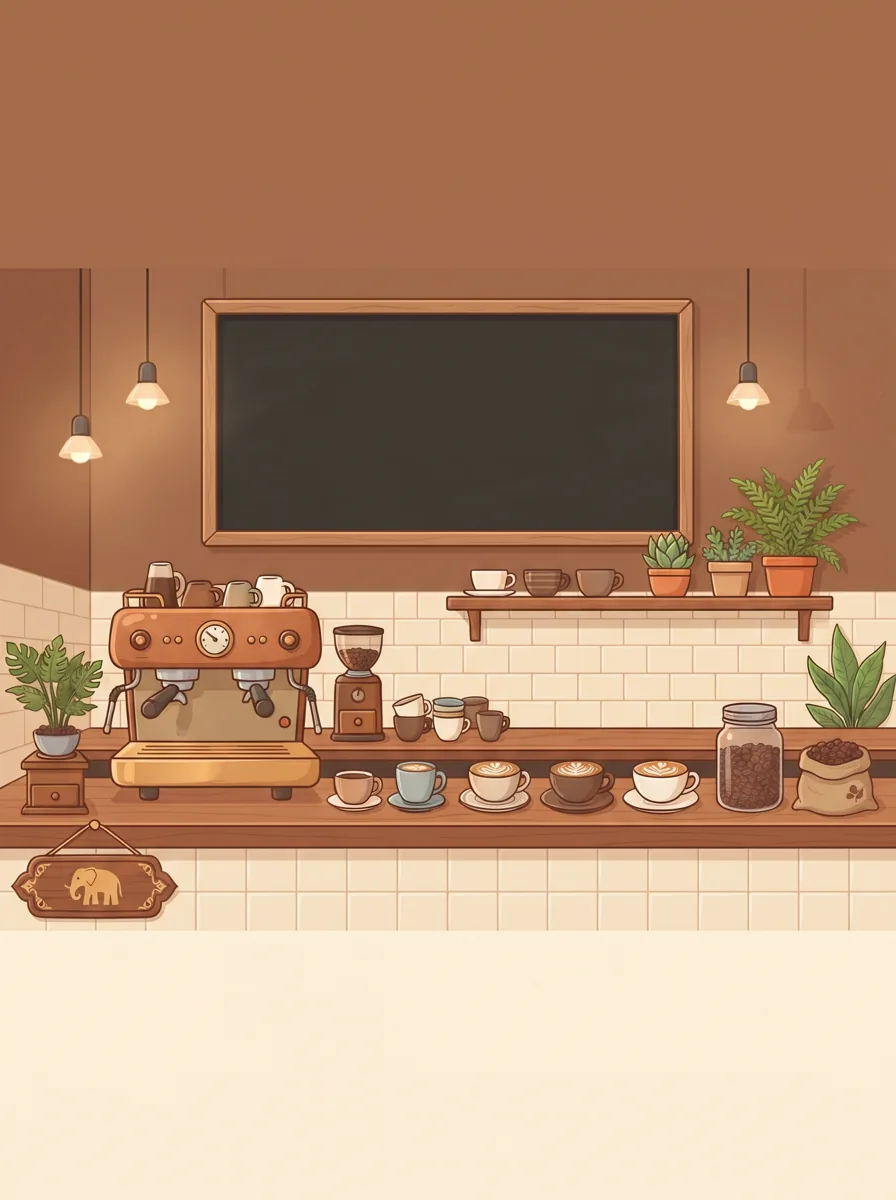
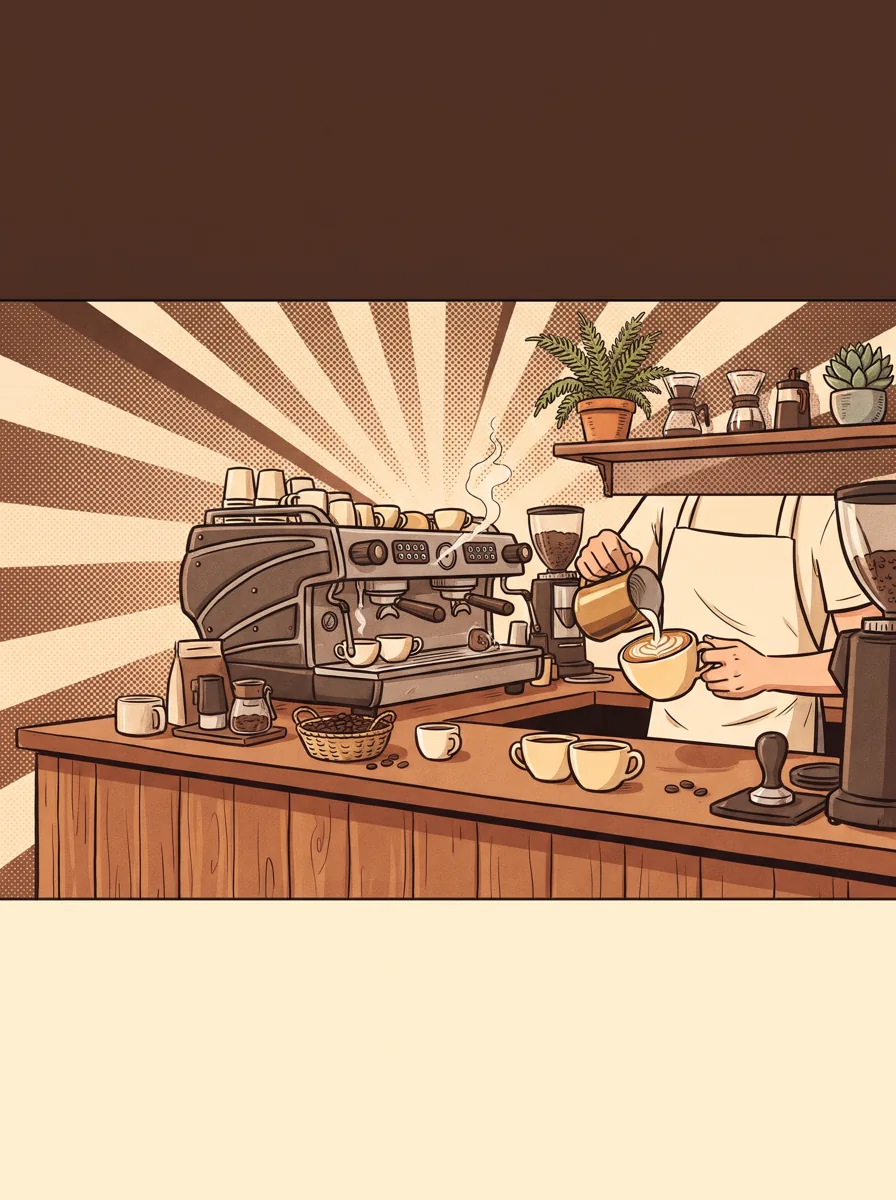
Comic-style art for all scenes, items and poster; item checklist with red ticks; example page fits one screen
- Regenerated CASE 01-03 scenes, poster background and all 7 items in one comic style
- Hunt bar shows every item to find; found items fade with a red tick
- Fix found-items state so fast taps never drop a find; bigger CASE 01 items
- Example poster page sized to the viewport, no scrolling

diff --git a/src/lib/cases.ts b/src/lib/cases.ts
@@ -36,7 +36,7 @@ export function answerKey(q: CaseQuestion): ExpectedAnswer & { steps: string[] }
 }
 
 /** One clue hidden in the case scene. x/y = centre in % of the scene, w = width in % of the scene width. */
-export interface SceneItem { name: string; file: string; value: string; x: number; y: number; w: number; rot?: number }
+export interface SceneItem { name: string; label: string; file: string; value: string; x: number; y: number; w: number; rot?: number }
 
 /** Everything the class screens need that is not in the database: scene art, items, teacher prompt. */
 export interface CaseScene {
@@ -95,11 +95,11 @@ export const CASE_SCENES: Record<string, CaseScene> = {
     teacherAsk: 'ข้อมูลชุดนี้มีค่าไหนแปลกไหม',
     explain: 'ค่าที่สูงมาก (1,000) ดึงค่าเฉลี่ยให้สูงขึ้นเป็น 210.8 ซึ่งไม่ใช่รายได้ของคนส่วนใหญ่ ส่วนมัธยฐานดูแค่ตำแหน่งตรงกลาง ได้ 14 พันบาท ใกล้กับรายได้ของคนส่วนใหญ่',
     items: [
-      { name: 'กรรไกรตัดกิ่งของคนสวน', file: 'item-c1-shears.webp', value: '12 พันบาท', x: 13, y: 91, w: 6, rot: -30 },
-      { name: 'ไม้ขนไก่ของแม่บ้าน', file: 'item-c1-duster.webp', value: '14 พันบาท', x: 73, y: 74, w: 5, rot: 20 },
-      { name: 'กุญแจรถของคนขับรถ', file: 'item-c1-key.webp', value: '13 พันบาท', x: 22, y: 69, w: 3.5, rot: 10 },
-      { name: 'หมวกเชฟของพ่อครัว', file: 'item-c1-chefhat.webp', value: '15 พันบาท', x: 53, y: 55, w: 3.5 },
-      { name: 'แหวนเพชรของเจ้าของคฤหาสน์', file: 'item-c1-ring.webp', value: '1,000 พันบาท', x: 25, y: 49, w: 2.6 },
+      { name: 'กรรไกรตัดกิ่งของคนสวน', label: 'กรรไกรตัดกิ่ง', file: 'item-c1-shears.webp', value: '12 พันบาท', x: 14, y: 88, w: 4.5, rot: -30 },
+      { name: 'ไม้ขนไก่ของแม่บ้าน', label: 'ไม้ขนไก่', file: 'item-c1-duster.webp', value: '14 พันบาท', x: 30, y: 68, w: 4, rot: 25 },
+      { name: 'กุญแจรถของคนขับรถ', label: 'กุญแจรถ', file: 'item-c1-key.webp', value: '13 พันบาท', x: 86, y: 73, w: 3.5, rot: 60 },
+      { name: 'หมวกเชฟของพ่อครัว', label: 'หมวกเชฟ', file: 'item-c1-chefhat.webp', value: '15 พันบาท', x: 44, y: 54, w: 4.5 },
+      { name: 'แหวนเพชรของเจ้าของคฤหาสน์', label: 'แหวนเพชร', file: 'item-c1-ring.webp', value: '1,000 พันบาท', x: 66, y: 47, w: 3.5 },
     ],
   },
   'CASE 02': {
@@ -108,11 +108,11 @@ export const CASE_SCENES: Record<string, CaseScene> = {
     teacherAsk: 'คดีนี้มีค่าแปลกเหมือนคดีที่แล้วไหม',
     explain: 'ขนาดรองเท้าใกล้เคียงกันหมด (26 ถึง 28) ไม่มีค่าผิดปกติ ค่าเฉลี่ยได้ 27 และมัธยฐานก็ได้ 27 ใกล้กันมาก ค่าเฉลี่ยใช้ข้อมูลทุกรอยจึงเป็นตัวแทนภาพรวมได้ดี',
     items: [
-      { name: 'รอยเท้ารอยที่ 1', file: 'item-c2-footprint.webp', value: 'Size 26', x: 16, y: 82, w: 4.5, rot: -15 },
-      { name: 'รอยเท้ารอยที่ 2', file: 'item-c2-footprint.webp', value: 'Size 27', x: 34, y: 66, w: 3.5, rot: 10 },
-      { name: 'รอยเท้ารอยที่ 3', file: 'item-c2-footprint.webp', value: 'Size 26', x: 50, y: 88, w: 4.5, rot: -5 },
-      { name: 'รอยเท้ารอยที่ 4', file: 'item-c2-footprint.webp', value: 'Size 28', x: 68, y: 72, w: 3.5, rot: 20 },
-      { name: 'รอยเท้ารอยที่ 5', file: 'item-c2-footprint.webp', value: 'Size 28', x: 85, y: 84, w: 4, rot: -25 },
+      { name: 'รอยเท้ารอยที่ 1', label: 'รอยเท้า 1', file: 'item-c2-footprint.webp', value: 'Size 26', x: 16, y: 82, w: 4.5, rot: -15 },
+      { name: 'รอยเท้ารอยที่ 2', label: 'รอยเท้า 2', file: 'item-c2-footprint.webp', value: 'Size 27', x: 34, y: 66, w: 3.5, rot: 10 },
+      { name: 'รอยเท้ารอยที่ 3', label: 'รอยเท้า 3', file: 'item-c2-footprint.webp', value: 'Size 26', x: 50, y: 88, w: 4.5, rot: -5 },
+      { name: 'รอยเท้ารอยที่ 4', label: 'รอยเท้า 4', file: 'item-c2-footprint.webp', value: 'Size 28', x: 68, y: 72, w: 3.5, rot: 20 },
+      { name: 'รอยเท้ารอยที่ 5', label: 'รอยเท้า 5', file: 'item-c2-footprint.webp', value: 'Size 28', x: 85, y: 84, w: 4, rot: -25 },
     ],
   },
   'CASE 03': {
@@ -121,12 +121,12 @@ export const CASE_SCENES: Record<string, CaseScene> = {
     teacherAsk: 'แพทย์นิติเวชต้องการหาอะไร',
     explain: 'หมู่เลือดเป็นข้อมูลหมวดหมู่ บวกหรือเรียงลำดับแบบตัวเลขไม่ได้ จึงหาค่าเฉลี่ยและมัธยฐานไม่ได้ ใช้ฐานนิยม: หมู่ O พบ 3 ครั้ง มากที่สุด',
     items: [
-      { name: 'หลอดเลือดผู้ต้องสงสัยคนที่ 1', file: 'item-c3-tube.webp', value: 'หมู่ A', x: 22, y: 31, w: 1.8, rot: 5 },
-      { name: 'หลอดเลือดผู้ต้องสงสัยคนที่ 2', file: 'item-c3-tube.webp', value: 'หมู่ B', x: 46, y: 65, w: 2.2, rot: 70 },
-      { name: 'หลอดเลือดผู้ต้องสงสัยคนที่ 3', file: 'item-c3-tube.webp', value: 'หมู่ O', x: 64, y: 55, w: 2, rot: -80 },
-      { name: 'หลอดเลือดผู้ต้องสงสัยคนที่ 4', file: 'item-c3-tube.webp', value: 'หมู่ O', x: 73, y: 46, w: 1.8, rot: 0 },
-      { name: 'หลอดเลือดผู้ต้องสงสัยคนที่ 5', file: 'item-c3-tube.webp', value: 'หมู่ A', x: 82, y: 88, w: 2.4, rot: 75 },
-      { name: 'หลอดเลือดผู้ต้องสงสัยคนที่ 6', file: 'item-c3-tube.webp', value: 'หมู่ O', x: 93, y: 68, w: 2, rot: -20 },
+      { name: 'หลอดเลือดผู้ต้องสงสัยคนที่ 1', label: 'หลอดเลือด 1', file: 'item-c3-tube.webp', value: 'หมู่ A', x: 47, y: 33, w: 1.5, rot: 0 },
+      { name: 'หลอดเลือดผู้ต้องสงสัยคนที่ 2', label: 'หลอดเลือด 2', file: 'item-c3-tube.webp', value: 'หมู่ B', x: 15, y: 52, w: 1.5, rot: 70 },
+      { name: 'หลอดเลือดผู้ต้องสงสัยคนที่ 3', label: 'หลอดเลือด 3', file: 'item-c3-tube.webp', value: 'หมู่ O', x: 60, y: 52, w: 1.5, rot: -75 },
+      { name: 'หลอดเลือดผู้ต้องสงสัยคนที่ 4', label: 'หลอดเลือด 4', file: 'item-c3-tube.webp', value: 'หมู่ O', x: 30, y: 88, w: 1.5, rot: 80 },
+      { name: 'หลอดเลือดผู้ต้องสงสัยคนที่ 5', label: 'หลอดเลือด 5', file: 'item-c3-tube.webp', value: 'หมู่ A', x: 80, y: 92, w: 1.5, rot: -60 },
+      { name: 'หลอดเลือดผู้ต้องสงสัยคนที่ 6', label: 'หลอดเลือด 6', file: 'item-c3-tube.webp', value: 'หมู่ O', x: 88, y: 55, w: 1.5, rot: 20 },
     ],
   },
 };

diff --git a/src/components/SceneHunt.tsx b/src/components/SceneHunt.tsx
@@ -25,23 +25,39 @@ export function SceneHunt({ scene, draftKey, onDone }: { scene: CaseScene; draft
 
   function take(i: number) {
     if (found.includes(i)) return;
-    sfx('reveal', s.muted); setFound([...found, i]); setPop(i);
+    sfx('reveal', s.muted); setFound((f) => (f.includes(i) ? f : [...f, i])); setPop(i); // functional: fast double taps must not drop a find
   }
 
   return (
     <div className="relative flex h-full w-full flex-col bg-navy text-cream">
-      {/* instruction bar */}
-      <div className="flex shrink-0 items-center gap-3 bg-navy p-2 px-3 shadow-xl">
-        <Hand className="shrink-0 text-gold" aria-hidden />
-        <p className="min-w-0 flex-1 font-bold leading-tight text-gold sm:text-lg">แตะหาเบาะแสที่ซ่อนอยู่ในฉากให้ครบ</p>
-        <div className="shrink-0 text-center" aria-live="polite">
-          <span className="font-num text-2xl font-black text-gold sm:text-3xl">{found.length}/{items.length}</span>
+      {/* checklist: what to find; found ones fade and get a red tick */}
+      <div className="shrink-0 bg-navy px-3 py-2 shadow-xl">
+        <div className="mb-1.5 flex items-center gap-2">
+          <Hand className="shrink-0 text-gold" size={20} aria-hidden />
+          <p className="min-w-0 flex-1 font-bold leading-tight text-gold sm:text-lg">ภารกิจ: หาของเหล่านี้ในฉากให้ครบ {items.length} ชิ้น</p>
+          <span className="shrink-0 font-num text-2xl font-black text-gold sm:text-3xl" aria-live="polite">{found.length}/{items.length}</span>
         </div>
+        <ul className="flex gap-1.5 overflow-x-auto sm:justify-center sm:gap-2" aria-label="รายการของที่ต้องหา">
+          {items.map((it, i) => {
+            const got = found.includes(i);
+            return (
+              <li key={i} className={`relative flex w-[72px] shrink-0 flex-col items-center rounded-xl p-1 sm:w-[84px] ${got ? 'bg-cream/40' : 'bg-cream'}`} aria-label={`${it.label}${got ? ' (เจอแล้ว)' : ''}`}>
+                <Art file={it.file} className={`h-10 w-10 object-contain transition sm:h-12 sm:w-12 ${got ? 'opacity-35 grayscale' : ''}`} />
+                <span className={`mt-0.5 w-full truncate text-center text-[11px] font-semibold leading-tight text-navy sm:text-xs ${got ? 'opacity-50' : ''}`}>{it.label}</span>
+                {got && (
+                  <motion.svg initial={{ scale: 0 }} animate={{ scale: 1 }} viewBox="0 0 24 24" className="absolute left-1/2 top-1 h-10 w-10 -translate-x-1/2 drop-shadow sm:h-12 sm:w-12" aria-hidden>
+                    <path d="M4 13l5 5L20 6" fill="none" stroke="#DC2626" strokeWidth="4" strokeLinecap="round" strokeLinejoin="round" />
+                  </motion.svg>
+                )}
+              </li>
+            );
+          })}
+        </ul>
       </div>
 
       {/* scene keeps the art's 16:9 ratio so items stay on the spots they were placed on */}
       <div className="grid min-h-0 flex-1 place-items-center overflow-hidden">
-        <div className="relative aspect-video max-h-full w-full max-w-full [container-type:inline-size]" style={{ maxWidth: 'calc((100dvh - 9rem) * 16 / 9)' }}>
+        <div className="relative aspect-video max-h-full w-full max-w-full [container-type:inline-size]" style={{ maxWidth: 'calc((100dvh - 15rem) * 16 / 9)' }}>
           <Art file={scene.bg} className="absolute inset-0 h-full w-full object-cover" fallback={<div className="absolute inset-0 bg-gradient-to-br from-dblue to-navy" />} />
           {items.map((it, i) => {
             const got = found.includes(i);
@@ -49,7 +65,7 @@ export function SceneHunt({ scene, draftKey, onDone }: { scene: CaseScene; draft
               <button key={i} type="button" onClick={() => take(i)} disabled={got || all}
                 aria-label={got ? `${it.name}: ${it.value}` : 'เบาะแสที่ซ่อนอยู่'}
                 className="absolute -translate-x-1/2 -translate-y-1/2 focus-visible:outline focus-visible:outline-4 focus-visible:outline-gold"
-                style={{ left: `${it.x}%`, top: `${it.y}%`, width: `max(${it.w}cqw, 30px)` }}>
+                style={{ left: `${it.x}%`, top: `${it.y}%`, width: `max(${it.w}cqw, 18px)` }}>
                 <span className="block" style={{ transform: `rotate(${it.rot ?? 0}deg)`, opacity: got ? 0.35 : 1 }}>
                   <Art file={it.file} className="pointer-events-none w-full object-contain drop-shadow-[0_2px_3px_rgba(0,0,0,.6)]" fallback={<span className="block aspect-square rounded-full bg-gold/80" />} />
                 </span>
@@ -73,7 +89,7 @@ export function SceneHunt({ scene, draftKey, onDone }: { scene: CaseScene; draft
         {pop !== null && !all && (
           <motion.div key={pop} initial={{ opacity: 0, scale: 0.5 }} animate={{ opacity: 1, scale: 1 }} exit={{ opacity: 0 }}
             onAnimationComplete={() => setTimeout(() => setPop(null), 900)}
-            className="pointer-events-none absolute left-1/2 top-16 z-10 -translate-x-1/2 rounded-xl bg-cream px-4 py-2 text-center text-navy shadow-xl ring-2 ring-gold">
+            className="pointer-events-none absolute bottom-16 left-1/2 z-10 -translate-x-1/2 rounded-xl bg-cream px-4 py-2 text-center text-navy shadow-xl ring-2 ring-gold">
             <div className="text-sm">พบ{items[pop].name}!</div>
             <b className="font-num text-2xl text-teal">{items[pop].value}</b>
           </motion.div>

diff --git a/src/pages/Example.tsx b/src/pages/Example.tsx
@@ -15,10 +15,11 @@ export default function Example() {
   const [data, setData] = useState(false);
   return (
     <Page title="ตัวอย่างที่ 1 · โปสเตอร์รับสมัครพนักงาน" back="/hq" dark>
-      <div className="grid items-start gap-6 lg:grid-cols-2">
+      {/* one screen, no scrolling: the poster takes the full height, the side column stays compact */}
+      <div className="flex h-[calc(100dvh-6.5rem)] items-stretch gap-5">
         {/* poster: art has no text, the Thai headline is real text so it is always sharp and correct */}
         <motion.div initial={{ rotate: -2, y: 20, opacity: 0 }} animate={{ rotate: -1.5, y: 0, opacity: 1 }}
-          className="relative mx-auto aspect-[3/4] w-full max-w-[520px] overflow-hidden rounded-lg bg-[#f4e3c3] shadow-2xl ring-8 ring-[#7a4b25]">
+          style={{ width: 'min(calc((100dvh - 6.5rem) * 0.75), 48vw)' }} className="relative h-full shrink-0 overflow-hidden rounded-lg bg-[#f4e3c3] shadow-2xl ring-8 ring-[#7a4b25]">
           <Art file="poster-bg.webp" className="absolute inset-0 h-full w-full object-cover" />
           <div className="absolute inset-x-0 top-0 bg-gradient-to-b from-[#3b2414]/90 via-[#3b2414]/60 to-transparent px-4 pb-10 pt-5 text-center text-[#fff3dc]">
             <p className="text-2xl font-black tracking-wide drop-shadow sm:text-4xl">ร้านกาแฟก้นแก้ว</p>
@@ -31,17 +32,17 @@ export default function Example() {
           </div>
         </motion.div>
 
-        <div className="space-y-4">
-          <div className="rounded-2xl bg-cream p-5 text-navy shadow-lg">
+        <div className="flex min-h-0 min-w-0 flex-1 flex-col gap-3">
+          <div className="rounded-2xl bg-cream p-4 text-navy shadow-lg">
             <p className="text-sm font-bold tracking-widest text-alert">คำถามชวนคิด</p>
             <p className="mt-1 text-2xl font-bold">ถ้าเราจะไปสมัครงาน นักเรียนจะเชื่อตัวเลขนี้ไหม เพราะอะไร?</p>
           </div>
           {!data && <Btn className="w-full text-xl" onClick={() => setData(true)}><Store aria-hidden /> ดูข้อมูลร้าน</Btn>}
           <AnimatePresence>
             {data && (
-              <motion.div initial={{ opacity: 0, y: 20 }} animate={{ opacity: 1, y: 0 }} className="rounded-2xl bg-white p-5 text-navy shadow-lg">
-                <h2 className="mb-3 text-xl font-bold">เงินเดือนพนักงานทั้งหมดของร้านกาแฟก้นแก้ว (5 คน)</h2>
-                <ul className="space-y-2">
+              <motion.div initial={{ opacity: 0, y: 20 }} animate={{ opacity: 1, y: 0 }} className="min-h-0 rounded-2xl bg-white p-4 text-navy shadow-lg">
+                <h2 className="mb-2 text-xl font-bold">เงินเดือนพนักงานทั้งหมดของร้านกาแฟก้นแก้ว (5 คน)</h2>
+                <ul className="space-y-1.5">
                   {STAFF.map((s, i) => (
                     <motion.li key={s.who} initial={{ opacity: 0, x: -20 }} animate={{ opacity: 1, x: 0 }} transition={{ delay: i * 0.25 }} className="grid grid-cols-[minmax(0,10rem)_1fr] items-center gap-3">
                       <span className="font-semibold">{s.who}</span>
@@ -53,7 +54,7 @@ export default function Example() {
                     </motion.li>
                   ))}
                 </ul>
-                <div className="mt-4 space-y-2 rounded-xl bg-gold/20 p-3 text-lg font-semibold">
+                <div className="mt-3 space-y-1 rounded-xl bg-gold/20 p-3 text-lg font-semibold">
                   <p>คิดว่าเงินเดือนพนักงานส่วนใหญ่น่าจะประมาณเท่าไร?</p>
                   <p>ตัวเลข 30,200 คำนวณถูกต้อง แต่ทำไมถึงทำให้เข้าใจผิด?</p>
                 </div>
